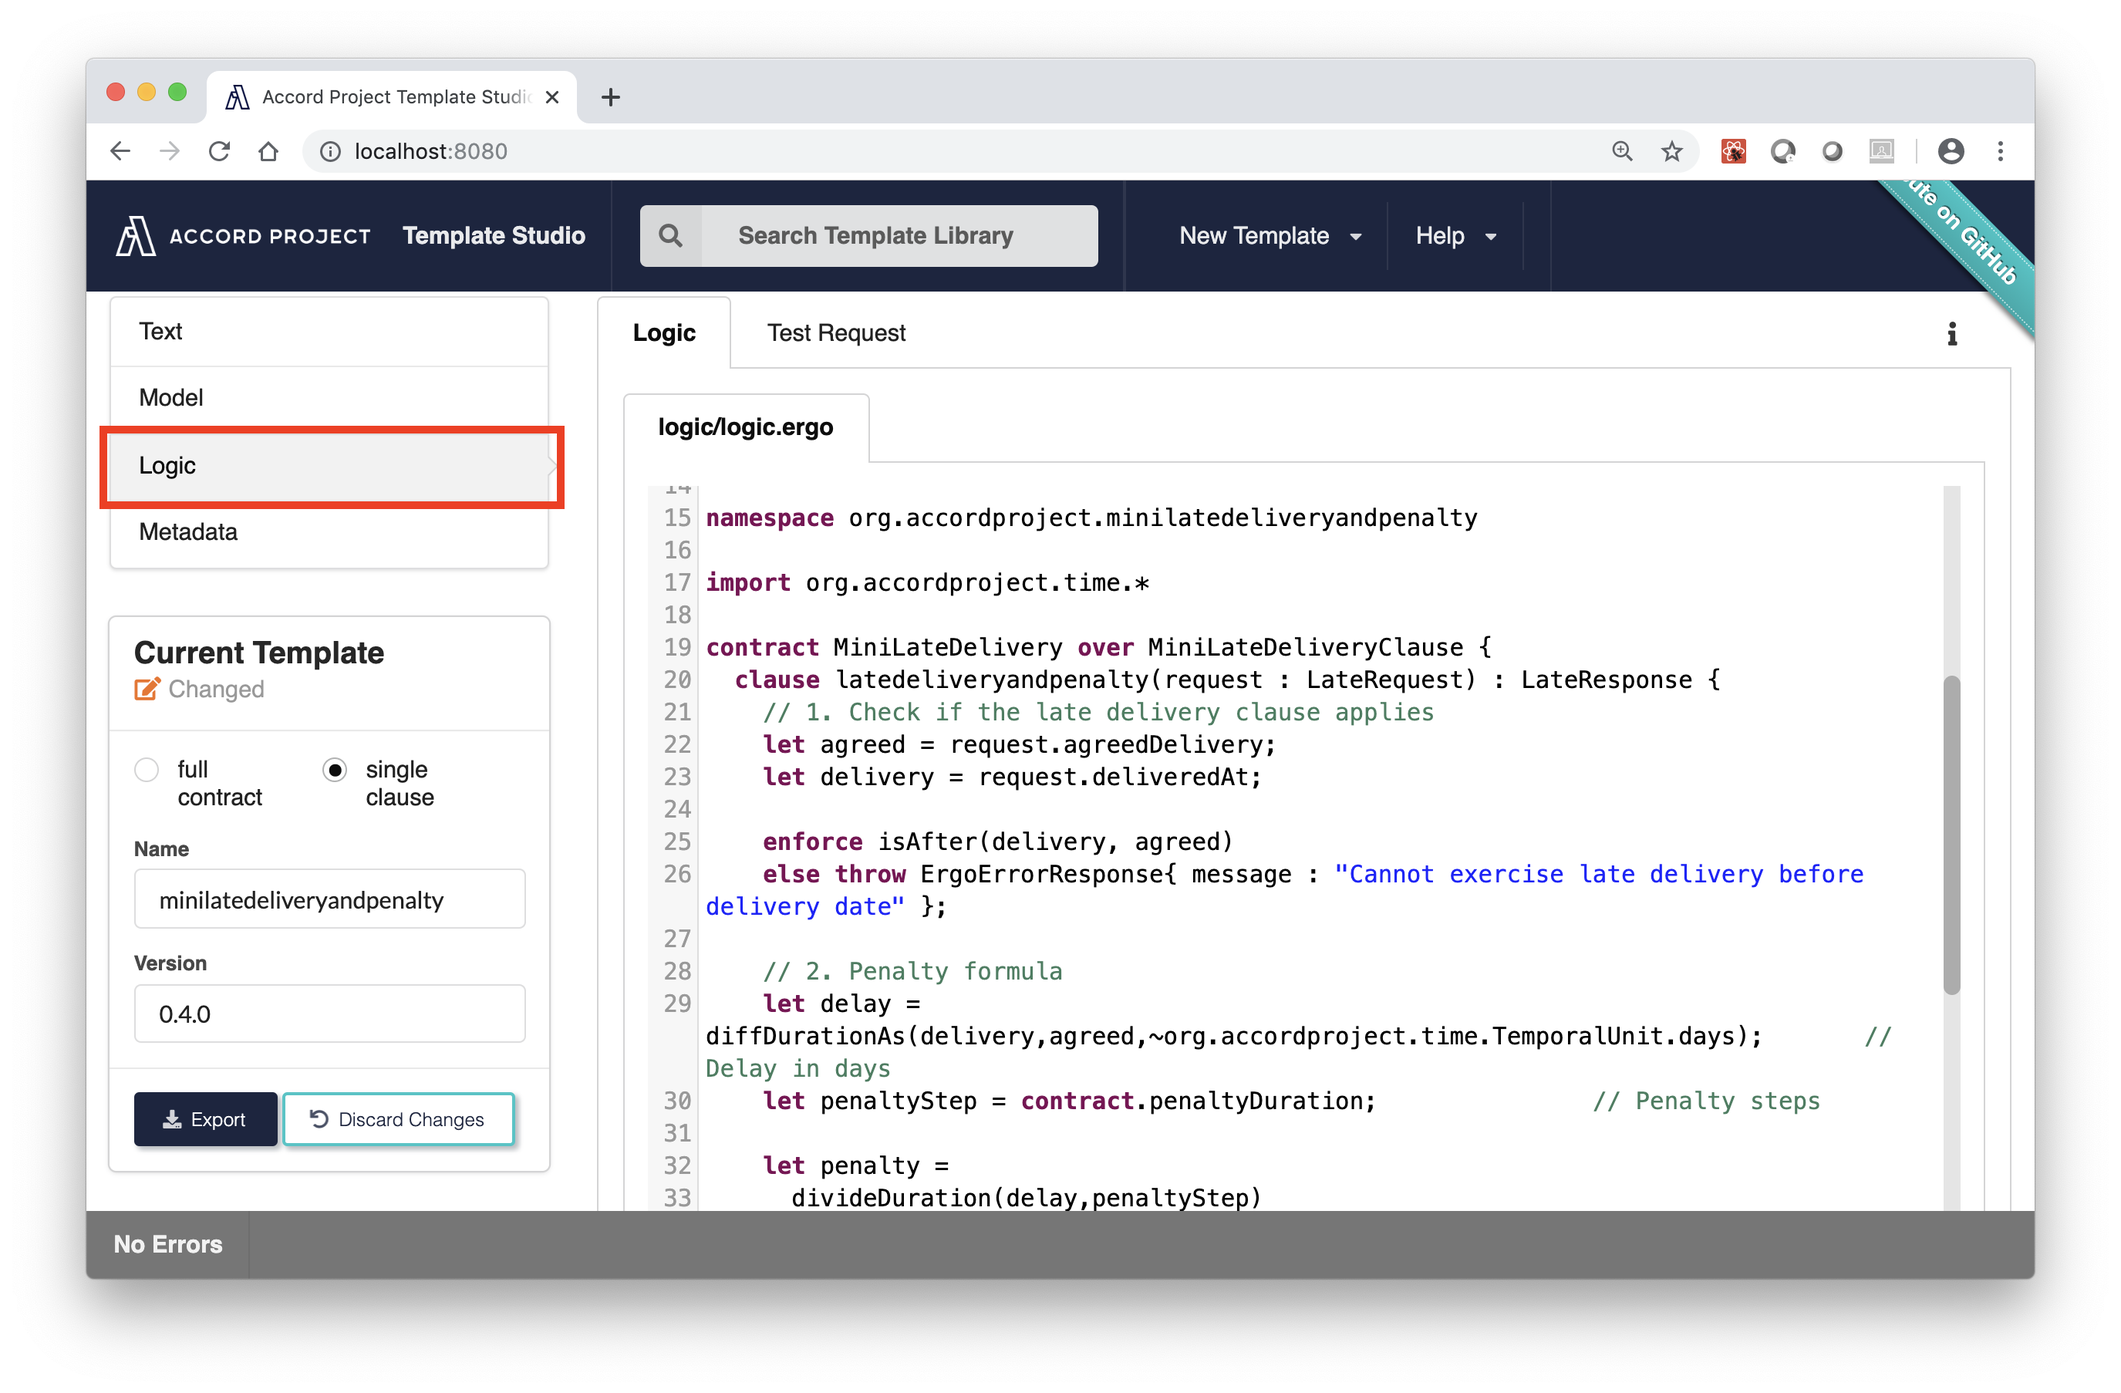
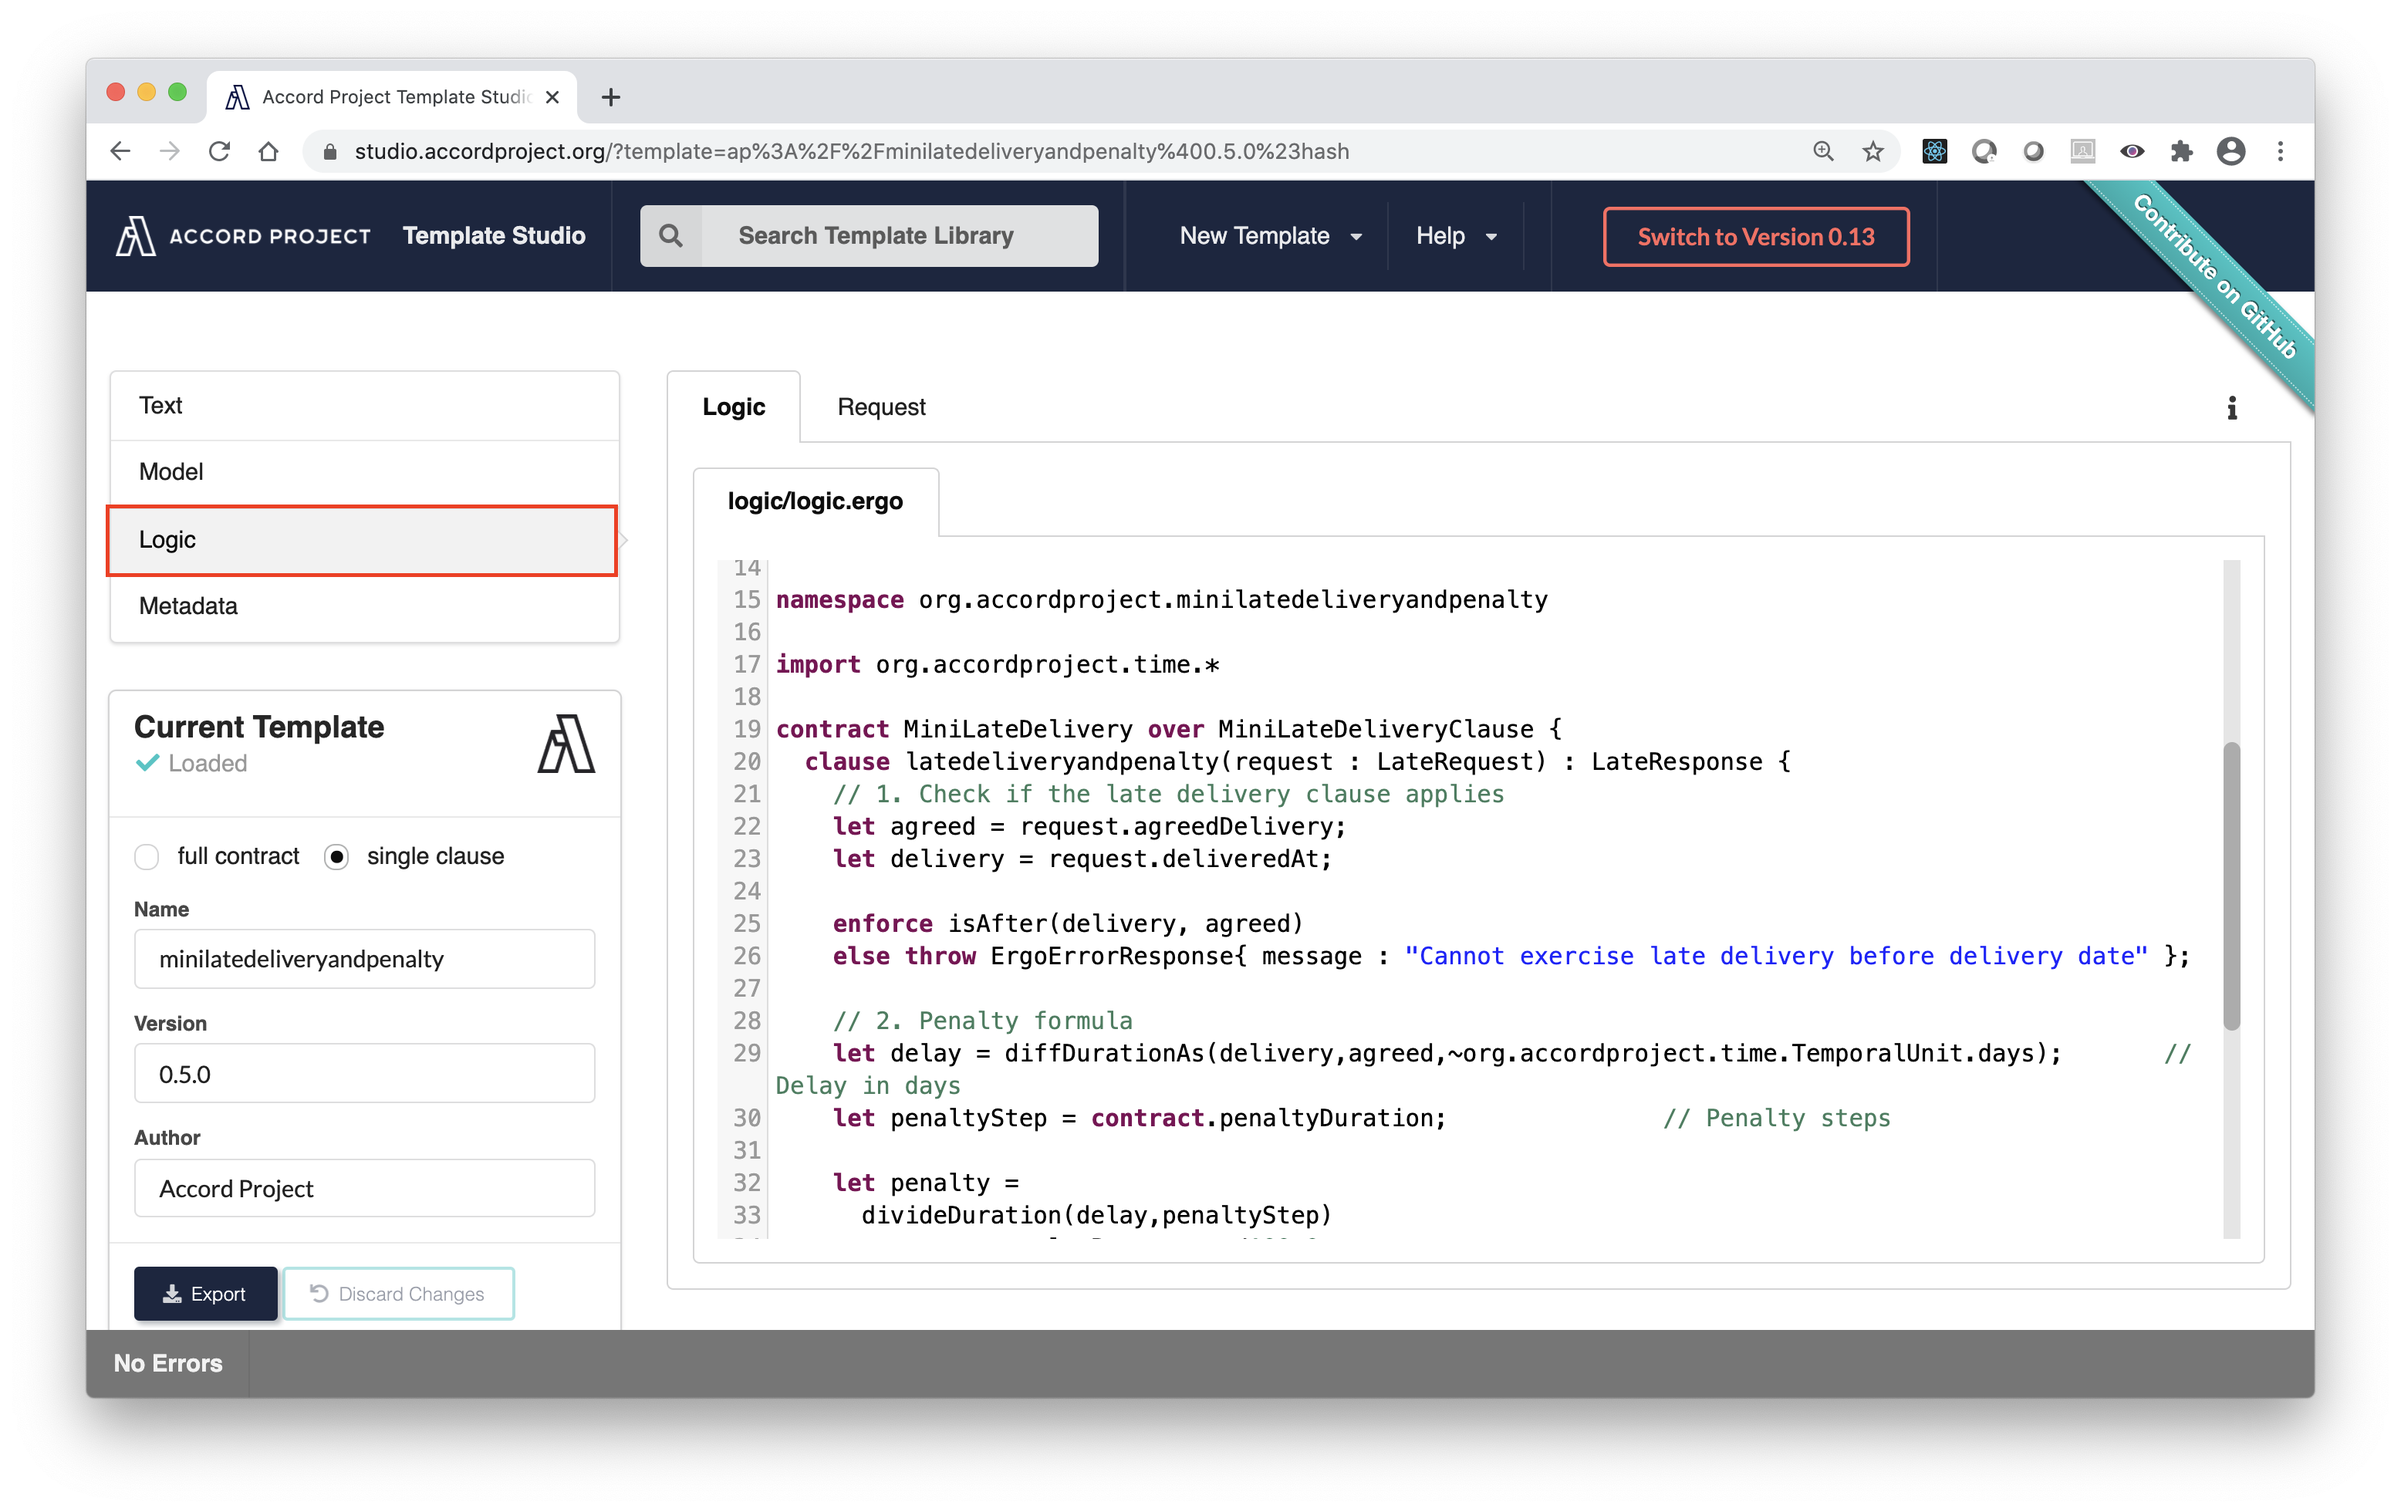
fix(tutorial) Update mini late delivery and penalty tutorial

Changed region(s): [[0.0309, 0.031, 0.9891, 0.9302], [0.7727, 0.7752, 0.8655, 0.8062], [0.2164, 0.4651, 0.2473, 0.5271]]

diff --git a/docs/tutorial-latedelivery.md b/docs/tutorial-latedelivery.md
@@ -11,7 +11,7 @@ We start with a very simple _Late Penalty and Delivery_ Clause and gradually mak
 
 ### Load the Template
 
-To get started, head to the `minilatedeliveryandpenalty` template in the Accord Project Template Library at [Mini Late Delivery And Penalty](https://templates.accordproject.org/minilatedeliveryandpenalty@0.4.0.html) and click the "Open In Template Studio" button.
+To get started, head to the `minilatedeliveryandpenalty` template in the Accord Project Template Library at [Mini Late Delivery And Penalty](https://templates.accordproject.org/minilatedeliveryandpenalty@0.5.0.html) and click the "Open In Template Studio" button.
 
 ![Advanced-Late-1](assets/advanced/late1.png)
 
@@ -23,17 +23,17 @@ Then click on the `Text` Section on the left, which should show a `Grammar` tab,
 
 ![Advanced-Late-2](assets/advanced/late2.png)
 
-When the text in the `Grammar` tab is in sync with the text in the `Test Sample` tab, this means the sample is a valid with respect to the grammar, and data is extracted, showing in `Contract Data` tab. The contract data is represented using the JSON format and contains the value of the variables declared in the contract template. For instance, the value for the `buyer` variable is `Betty Buyer`, highlighted in red:
+When the text in the `Grammar` tab is in sync with the text in the `Sample` tab, this means the sample is a valid with respect to the grammar, and data is extracted, showing in `Contract Data` tab. The contract data is represented using the JSON format and contains the value of the variables declared in the contract template. For instance, the value for the `buyer` variable is `Betty Buyer`, highlighted in red:
 
 ![Advanced-Late-3](assets/advanced/late3.png)
 
-Changes to the variables in the `Test Sample` are reflected in the `Contract Data` tab in real time, and vice versa. For instance, change `Betty Buyer` to a different name in the contract text to see the `partyId` change in the contract data.
+Changes to the variables in the `Sample` are reflected in the `Contract Data` tab in real time, and vice versa. For instance, change `Betty Buyer` to a different name in the contract text to see the `partyId` change in the contract data.
 
-If you edit part of the text which is not a variable in the template, this results in an error when parsing the `Test Sample`. The error will be shown in red in the status bar at the bottom of the page. For instance, the following image shows the parsing error obtained when changing the word `delayed` to the word `timely` in the contract text.
+If you edit part of the text which is not a variable in the template, this results in an error when parsing the `Sample`. The error will be shown in red in the status bar at the bottom of the page. For instance, the following image shows the parsing error obtained when changing the word `delayed` to the word `timely` in the contract text.
 
 ![Advanced-Late-4](assets/advanced/late4.png)
 
-This is because the `Test Sample` relies on the `Grammar` text as a source of truth. This mechanism ensures that the actual contract always reflects the template, and remains faithful to the original legal text. You can, however, edit the `Grammar` itself to change the legal text.
+This is because the `Sample` relies on the `Grammar` text as a source of truth. This mechanism ensures that the actual contract always reflects the template, and remains faithful to the original legal text. You can, however, edit the `Grammar` itself to change the legal text.
 
 Revert your changes, changing the word `timely` back to the original word `delayed` and the parsing error will disappear.
 
@@ -56,13 +56,13 @@ The final part of the template is the `Ergo` tab of the `Logic` section, which d
 
 Thanks to the `namespace` at the beginning of this file, the Ergo engine can know the definition for the `MiniLateDeliveryClause`, as well as the `LateRequest`, and `LateResponse` types defined in the `Model` tab.
 
-To test the template execution, go to the `Test Request` tab in the `Logic` section. It should be already populated with a valid `Request`. Press the `Send Request` button to trigger the clause.
+To test the template execution, go to the `Request` tab in the `Logic` section. It should be already populated with a valid request. Press the `Trigger` button to trigger the clause.
 
 ![Advanced-Late-7](assets/advanced/late7.png)
 
 Since the value of the `deliveredAt` parameter in the request is after the value of the `agreedDelivery` parameter in the request, this should return a new response which includes the calculated penalty.
 
-Changing the date for the `deliveredAt` parameter in the request will result in a different penalty.
+Changing the date for the `deliveredAt` parameter in the request and triggering the contract again will result in a different penalty.
 
 ![Advanced-Late-8](assets/advanced/late8.png)
 
@@ -72,7 +72,7 @@ Note that the clause will return an error if it is called for a timely delivery.
 
 ## Add a Penalty Cap
 
-We can now start building a more advanced clause. Let us first take a moment to notice that there is no limitation to the penalty resulting from a late delivery. Under `Test Execution` in `Logic`, send this request:
+We can now start building a more advanced clause. Let us first take a moment to notice that there is no limitation to the penalty resulting from a late delivery. Trigger the contract using the following request in the `Request` tab in `Logic`:
 ```json
 {
   "$class": "org.accordproject.minilatedeliveryandpenalty.LateRequest",
@@ -94,7 +94,7 @@ Notice that the penalty is now quite a large value. It is not unusual to cap a p
 
 ### Update the Legal Text
 
-To implement this, we first go to the `Template` tab and add a sentence indicating: `The total amount of penalty shall not, however, exceed {{capPercentage}}% of the total value of the delayed goods.`
+To implement this, we first go to the `Grammar` tab in the `Text` section and add a sentence indicating: `The total amount of penalty shall not, however, exceed {{capPercentage}}% of the total value of the delayed goods.`
 
 For convenience, you can copy-paste the new template text from here:
 ```tem
@@ -118,7 +118,7 @@ As explained in the error message, this is because the new template text uses a 
 
 To define this new variable, go to the `Model` tab, and change the `MiniLateDeliveryClause` type to include `o Double capPercentage`.
 
-![Advanced-Late-11](assets/advanced/late10b.png)
+![Advanced-Late-11](assets/advanced/late11.png)
 
 For convenience, you can copy-paste the new `MiniLateDeliveryClause` type from here:
 ```ergo
@@ -132,9 +132,9 @@ asset MiniLateDeliveryClause extends AccordClause {
 }
 ```
 
-This results in a new error, this time on the test contract:
+This results in a new error, this time on the sample contract:
 
-![Advanced-Late-11](assets/advanced/late11.png)
+![Advanced-Late-12](assets/advanced/late12.png)
 
 To fix it, we need to add that same line we added to the template, replacing the `capPercentage` by a value in the `Test Contract`: `The total amount of penalty shall not, however, exceed 52% of the total value of the delayed goods.`
 
@@ -153,7 +153,7 @@ total value of the delayed goods. If the delay is more than
 
 Great, now the edited template should have no more errors, and the contract data should now include the value for the new `capPercentage` variable.
 
-![Advanced-Late-12](assets/advanced/late12.png)
+![Advanced-Late-13](assets/advanced/late13.png)
 
 Note that the `Current Template` Tab indicates that the template has been changed.
 
@@ -180,16 +180,16 @@ Do not forget to also change the value of the penalty in the returned `LateRespo
 ```
 The logic should now look as follows:
 
-![Advanced-Late-13](assets/advanced/late13.png)
+![Advanced-Late-14](assets/advanced/late14.png)
 
 ### Run the new Logic
 
 As a final test of the new template, you should try again to run the contract with a long delay in delivery. This should now result in a much smaller penalty, which is capped to 52% of the total value of the goods, or 104 USD.
 
-![Advanced-Late-14](assets/advanced/late14.png)
+![Advanced-Late-15](assets/advanced/late15.png)
 
 :::tip
-A full version of the template after those changes have been applied can be found as the [Mini Late Delivery And Penalty Capped](https://templates.accordproject.org/minilatedeliveryandpenalty-capped@0.4.0.html) in the Template Library.
+A full version of the template after those changes have been applied can be found as the [Mini Late Delivery And Penalty Capped](https://templates.accordproject.org/minilatedeliveryandpenalty-capped@0.5.0.html) in the Template Library.
 :::
 
 ## Emit a Payment Obligation.
@@ -200,7 +200,7 @@ As a final extension to this template, we can modify it to emit a Payment Obliga
 
 The first place to change is in the metadata for the template. This can be done easily with the `full contract` button in the `Current Template` tab. This will immediately result in an error indicating that the model does not contain an `AccordContract` type.
 
-![Advanced-Late-15](assets/advanced/late15.png)
+![Advanced-Late-16](assets/advanced/late16.png)
 
 ### Update the Model
 
@@ -257,6 +257,10 @@ Lastly, add a new step between steps `// 4.` and `// 5.` in the logic to emit a 
     };
 
 ```
-That's it! You can observe in the `Test Execution` that an `Obligation` is now being emitted. Try out adjusting values and continuing to send requests and getting responses and obligations.
+That's it! You can observe in the `Request` tab that an `Obligation` is now being emitted. Try out adjusting values and continuing to send requests and getting responses and obligations.
 
-![Advanced-Late-16](assets/advanced/late16.png)
+![Advanced-Late-17](assets/advanced/late17.png)
+
+:::tip
+A full version of the template after those changes have been applied can be found as the [Mini-Late Delivery and Penalty Payment](https://templates.accordproject.org/minilatedeliveryandpenalty-payment@0.5.0.html) in the Template Library.
+:::

diff --git a/docs/started-hello.md b/docs/started-hello.md
@@ -74,11 +74,10 @@ Thank you!
 Then run `cicero parse --template helloworld@0.13.0.cta --sample sample.md` again. The output should now be:
 
 ```text
-18:15:22 - error: invalid syntax at line 1 col 1:
-
-  FUBAR Name of the person to greet: "Fred Blogs".
-  ^
-Unexpected "F"
+2:13:15 AM - error: Parse error at line 1 column 1
+FUBAR Name of the person to greet: "Fred Blogs".
+^^^^^^^^^^^^^^^^^^^^^^^^^^^^^
+Expected: 'Name of the person to greet: '
 ```
 
 ## Draft: Create Text from Deal Data
